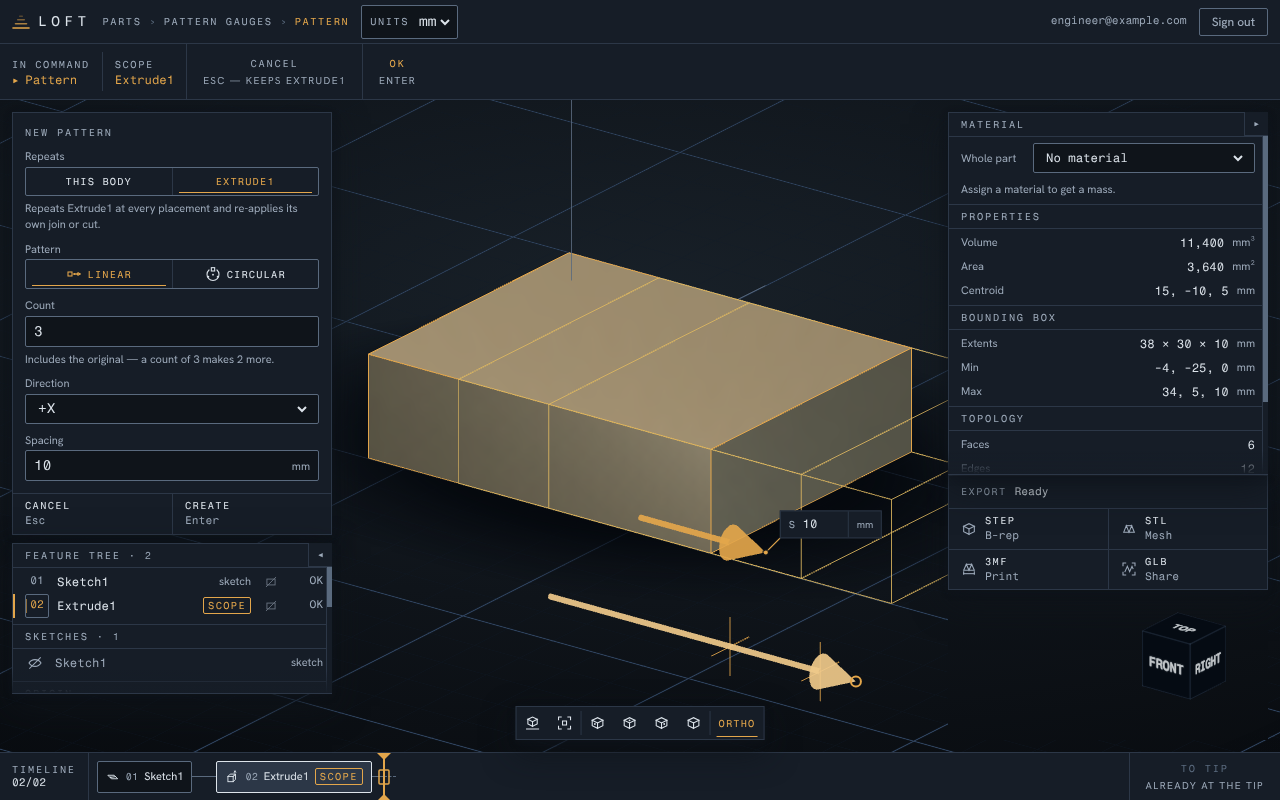
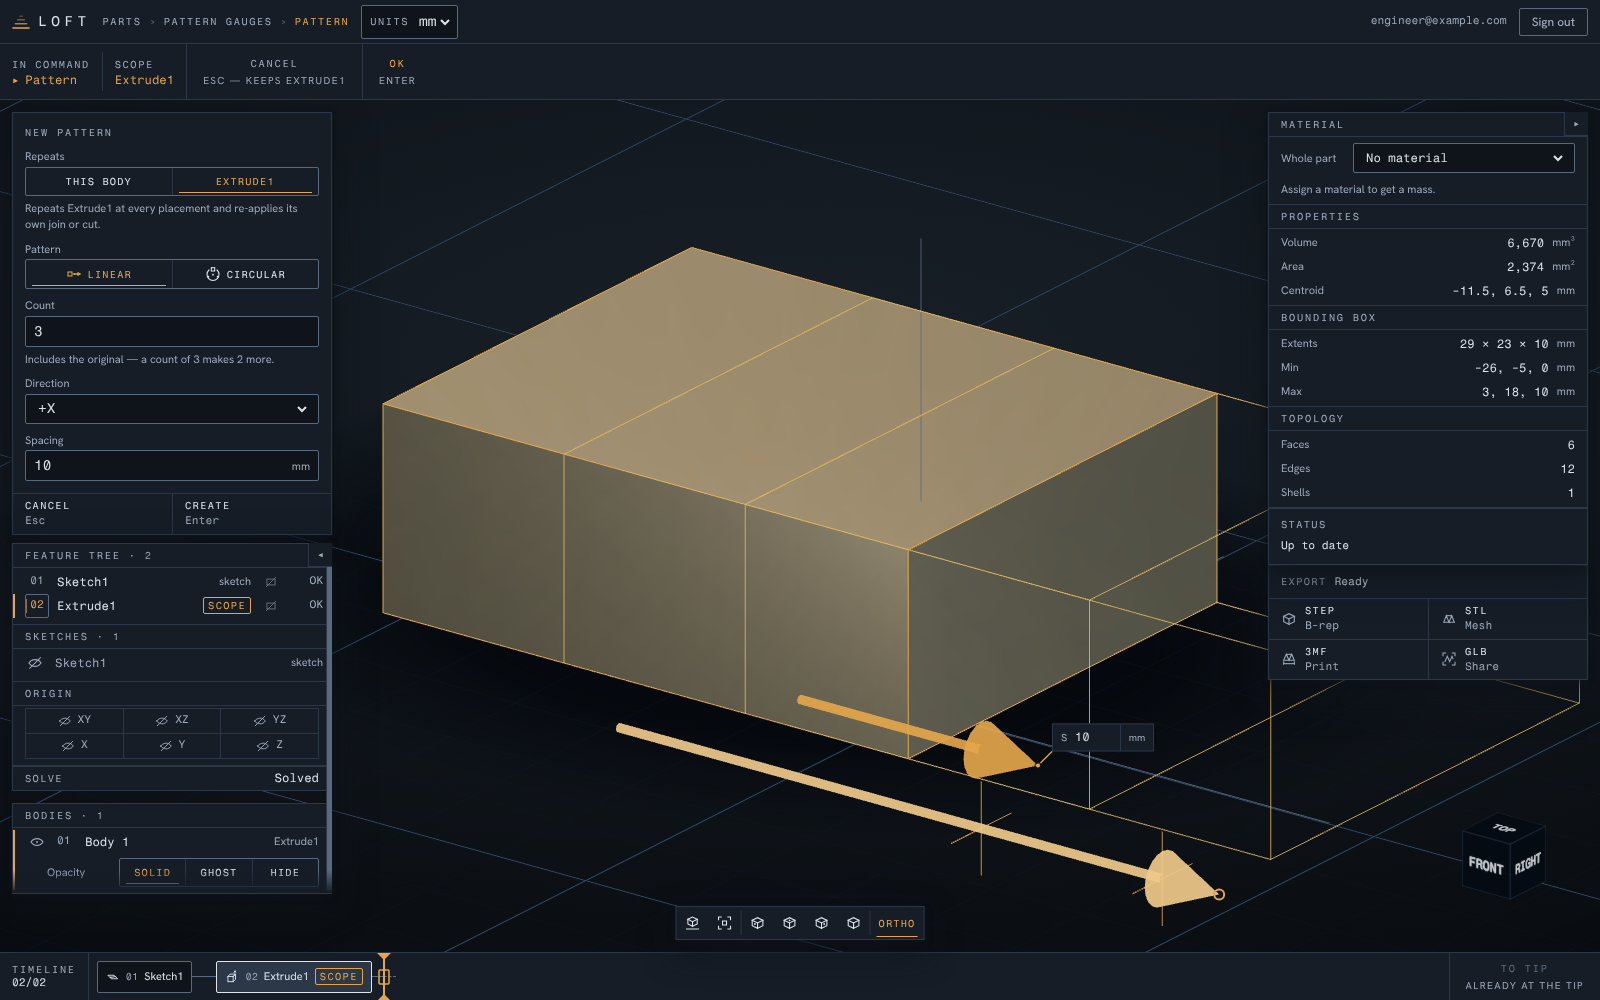
fix(web): the pattern count gauge's seat left the frame — the mm floors are why
`elementFromPoint` down the count gauge's own projected track resolved to the
instrument at 3 of 16 sample points, and SIX of the sixteen resolved to `null`
— off the frame entirely, which occlusion cannot produce. The rest landed on
`view-home` / `view-fit` / `timeline-way`: the track was laid across the nav
chrome and then off the bottom edge.

CRAFT-11 honestly measured 16/16 for the same gauge, and the state that differs
between the two readings is THE SIZE OF THE PART IN MILLIMETRES:

  | body (scene mm) | zoom | count reach | spacing reach |
  |---|---|---|---|
  | 102 x 10 x 73   |  6.9 | 16/16       | 16/16 |
  | 29 x 10 x 23    | 22.5 | 3/16        | 16/16 |
  | 11 x 10 x 11    | 40.1 | 0/16        | 2/16  |

The camera fits the BODY, so a world millimetre buys more pixels the smaller
the part is. The rails hung at `perpHalf + max(6, 0.35r) + max(10, 0.5r)`, and
BOTH `max`es select their constant whenever `radius < 17 mm` — most parts — so
the offset stopped shrinking with the part while the frame went on shrinking
with it. On the spec's part the far rail sat 438 px below the body centre on a
canvas whose centre-to-bottom is 449 px, 11 px above the edge before the arrow
had drawn anything.

The floors were SCREEN-SPACE REQUIREMENTS WRITTEN IN WORLD UNITS; their own
docstring said so ("10 mm projects to comfortably more than the 12 px sleeve
half-thickness"), and that is only true of parts big enough for the fraction to
[…]

diff --git a/apps/web/src/viewport/patternAnchor.ts b/apps/web/src/viewport/patternAnchor.ts
@@ -99,25 +99,26 @@ export const MAX_PATTERN_COUNT = 500;
  * the part READS, which is exactly what `radius` already means — it is the
  * number sizing the arrowhead and the rungs, so using it here makes one scale
  * where there were two.
+ *
+ * It had a `max(…, 6 mm)` floor under it until the seat was measured against
+ * the frame; {@link countRailOffset} carries that finding.
  */
-const RAIL_CLEARANCE_FRAC = 0.35;
-
-/** Clearance floor, mm, so a thin part still gets its dimension off the metal. */
-const RAIL_CLEARANCE_MIN_MM = 6;
-
-/** Rail separation, as a fraction of the instrument's own scale. */
-const RAIL_PITCH_FRAC = 0.5;
+export const RAIL_CLEARANCE_FRAC = 0.35;
 
 /**
- * Rail separation floor, mm.
+ * Rail separation, as a fraction of the instrument's own scale.
  *
- * This is the number that keeps the two hit sleeves apart, so it is a TARGET
- * SIZE question rather than a taste one: 10 mm projects to comfortably more
- * than the 12 px sleeve half-thickness at any camera that can frame a part
- * worth patterning, which is what makes "each sleeve resolves to itself" true
- * by construction rather than by luck.
+ * This is the number that keeps the two hit sleeves apart, and it used to be
+ * `max(0.5 · radius, 10 mm)`. **The floor was the defect** — see
+ * {@link countRailOffset} — and with it gone the fraction carries the whole
+ * guarantee, so it is now chosen against a projected pixel count rather than a
+ * world length: under the fit-to-body camera `0.3 · radius` measured **78, 83
+ * and 70 px** on parts of 29, 11 and 102 mm, against a 12 px sleeve
+ * half-thickness. The floor gave **208, 371 and 116 px** on the same three —
+ * the same requirement, met by 3x as much screen on the part that could least
+ * afford it. A fraction can be scale-invariant; a millimetre cannot.
  */
-const RAIL_PITCH_MIN_MM = 10;
+export const RAIL_PITCH_FRAC = 0.3;
 
 /** Seat scale floor, mm — a hairline part still gets a grabbable instrument. */
 const MIN_SEAT_RADIUS_MM = 2;
@@ -229,18 +230,62 @@ export function patternAnchor(bounds: SceneBounds, dir: Vec3): PatternAnchor {
 
 /** Distance from the body centre to the near (spacing) rail. */
 export function spacingRailOffset(anchor: PatternAnchor): number {
-  return (
-    anchor.perpHalf +
-    Math.max(RAIL_CLEARANCE_MIN_MM, RAIL_CLEARANCE_FRAC * anchor.radius)
-  );
+  return anchor.perpHalf + RAIL_CLEARANCE_FRAC * anchor.radius;
 }
 
-/** Distance from the body centre to the far (count) rail. */
+/**
+ * Distance from the body centre to the far (count) rail.
+ *
+ * ## THE SEAT USED TO LEAVE THE FRAME, AND THE FLOORS ARE WHY (P1, 2026-09-14)
+ *
+ * Measured on the flow `pattern-gauges.spec.ts` drives: `elementFromPoint` down
+ * the count gauge's own projected track resolved to the instrument at **3 of 16
+ * sample points**, and — the fact that names the cause — **six of the sixteen
+ * resolved to `null`**, off the frame entirely. Occlusion cannot produce a
+ * `null`. The rest landed on `view-home` / `view-fit` / `timeline-way`: the
+ * track was being laid across the nav chrome and then off the bottom edge.
+ *
+ * CRAFT-11 honestly measured 16/16 for the same gauge. Both readings are true,
+ * and the state that differs between them is **the size of the part in
+ * millimetres**:
+ *
+ * | body (scene mm) | camera zoom | count reach | spacing reach |
+ * |---|---|---|---|
+ * | 102 x 10 x 73 | 6.9 | 16/16 | 16/16 |
+ * | 29 x 10 x 23 (the spec's) | 22.5 | **3/16** | 16/16 |
+ * | 11 x 10 x 11 | 40.1 | **0/16** | **2/16** |
+ *
+ * The camera fits the BODY, so every world millimetre buys more pixels the
+ * smaller the part is. The rails were hung at `perpHalf + max(6, 0.35·r) +
+ * max(10, 0.5·r)`, and BOTH `max`es select their constant whenever
+ * `radius < 17 mm` — any part whose section across the row is under about
+ * 34 mm, which is most of them. So the offset stopped shrinking with the part
+ * while the frame went on shrinking with it.
+ *
+ * In pixels, on the spec's part: the far rail sat **438 px below the body's
+ * centre on a canvas whose centre-to-bottom is 449 px**, and the track then
+ * descends a further 166 px as it runs. The rail was 11 px above the bottom
+ * edge before the arrow had drawn anything.
+ *
+ * **The floors were screen-space requirements written in world units.** Their
+ * own docstrings said so — "10 mm projects to comfortably more than the 12 px
+ * sleeve half-thickness at any camera that can frame a part worth patterning" —
+ * and that sentence is only true of parts big enough to make the fraction win
+ * anyway. A fraction of `radius` IS the scale-invariant form of the same
+ * requirement, because the camera frames `radius`: measured across a 9x range
+ * of part size the rail separation now holds at **78 / 83 / 70 px**, where the
+ * floors produced **208 / 371 / 116**. So the floors are gone and the
+ * fractions, retuned, carry it.
+ *
+ * What this does NOT fix, said plainly: a part SMALLER than the row it
+ * generates. At 11 x 11 x 10 mm with a 10 mm pitch the ghost copies themselves
+ * run off the right edge — the whole preview is outside a frame fitted to one
+ * body, and the gauge merely inherits it. That is a camera question (nothing
+ * re-fits when a preview appears), not a seat question, and it is not fixable
+ * from this file.
+ */
 export function countRailOffset(anchor: PatternAnchor): number {
-  return (
-    spacingRailOffset(anchor) +
-    Math.max(RAIL_PITCH_MIN_MM, RAIL_PITCH_FRAC * anchor.radius)
-  );
+  return spacingRailOffset(anchor) + RAIL_PITCH_FRAC * anchor.radius;
 }
 
 /**

diff --git a/apps/web/src/viewport/patternAnchor.test.ts b/apps/web/src/viewport/patternAnchor.test.ts
@@ -26,6 +26,7 @@ import {
   MIN_PATTERN_COUNT,
   patternAnchor,
   patternPerp,
+  RAIL_PITCH_FRAC,
   sceneDirection,
   spacingRailOffset,
   spacingSeat,
@@ -122,22 +123,86 @@ describe("the two rails", () => {
     expect(spacingRailOffset(plate) - plate.perpHalf).toBeGreaterThan(
       2 * plate.perpHalf,
     );
-    expect(countRailOffset(plate)).toBeGreaterThan(30);
   });
 
-  it("separates the two sleeves by at least the rail-pitch floor", () => {
+  it("separates the two sleeves in PROPORTION to the instrument", () => {
     // THE HAZARD THIS ITEM OWNS. Seated on one line the two gauges would
     // overlap for the whole first gap and each sleeve could answer for its
-    // sibling. Checked on a hairline body too, where the fractional term
-    // vanishes and only the floor is holding them apart.
+    // sibling.
+    //
+    // This used to read `>= 10`, the millimetre floor, and that floor is what
+    // put the count gauge off the frame (see `countRailOffset`). The separation
+    // is a SCREEN requirement — the sleeve is 12 px half-thick — and the camera
+    // frames `radius`, so a fraction of `radius` is the form of it that holds at
+    // every part size: measured 78 / 83 / 70 px on parts of 29 / 11 / 102 mm,
+    // where the floor gave 208 / 371 / 116 for the same requirement.
+    //
+    // The hairline body is still here, and it is now held by MIN_SEAT_RADIUS_MM
+    // rather than by a rail-pitch floor — one scale floor instead of three.
     for (const bounds of [
       BLOCK,
       { min: [0, 0, 0], max: [40, 0, 0] } as SceneBounds,
     ]) {
       const anchor = patternAnchor(bounds, X);
-      expect(
-        countRailOffset(anchor) - spacingRailOffset(anchor),
-      ).toBeGreaterThanOrEqual(10);
+      expect(anchor.radius).toBeGreaterThanOrEqual(2);
+      expect(countRailOffset(anchor) - spacingRailOffset(anchor)).toBeCloseTo(
+        RAIL_PITCH_FRAC * anchor.radius,
+        9,
+      );
+    }
+  });
+
+  it("SCALES WITH THE PART — the property the floors broke", () => {
+    // The regression test for the P1, stated as the invariant rather than as a
+    // number: two geometrically SIMILAR bodies must get geometrically similar
+    // instruments, so every seat length scales by exactly the body's scale
+    // factor. A `max(…, <constant> mm)` cannot do that, which is precisely why
+    // the seat stopped shrinking with the part and walked off the frame — and
+    // it is why this assertion FAILS on the pre-fix arithmetic at k = 4: the
+    // floors select the constant for the small body and the fraction for the
+    // large one, so `spacingRailOffset` came out 12 mm and 34.1 mm (it reports
+    // "expected 34.095… to be close to 48") and `countRailOffset` 22 mm and
+    // 48.5 mm — ratios of 2.84 and 2.20 where the bodies differ by 4.
+    //
+    // It matters because the camera fits the BODY: an instrument similar to the
+    // part occupies a fixed share of the frame at every part size, which is the
+    // only version of "it is on screen" that is not a coincidence about one
+    // test fixture.
+    const k = 4;
+    const small = patternAnchor(BLOCK, X);
+    const large = patternAnchor(
+      {
+        min: [BLOCK.min[0] * k, BLOCK.min[1] * k, BLOCK.min[2] * k],
+        max: [BLOCK.max[0] * k, BLOCK.max[1] * k, BLOCK.max[2] * k],
+      },
+      X,
+    );
+    expect(large.radius).toBeCloseTo(k * small.radius, 9);
+    expect(spacingRailOffset(large)).toBeCloseTo(
+      k * spacingRailOffset(small),
+      9,
+    );
+    expect(countRailOffset(large)).toBeCloseTo(k * countRailOffset(small), 9);
+  });
+
+  it("spends at most 0.7 of the instrument's scale getting clear of the body", () => {
+    // A BUDGET, not a restatement of the arithmetic: the frame is fitted to the
+    // body, so the rails stay inside it only while the whole stack stays inside
+    // a small multiple of the part's own scale. Measured on the spec's
+    // 29 x 10 x 23 mm part, 0.65 puts the far rail 274 px below the body centre
+    // with 56 px of canvas still under the arrow's grip; the pre-fix seat put it
+    // 438 px down, past the bottom edge. Raising either fraction back toward
+    // what the floors used to deliver (16 mm of clearance+pitch on this BLOCK,
+    // i.e. 2.2 x radius) fails here first, cheaply, instead of in a browser.
+    for (const bounds of [
+      BLOCK,
+      { min: [-47.5, -5, -32.5], max: [47.5, 5, 32.5] } as SceneBounds,
+      { min: [-14.5, 0, -11.5], max: [14.5, 10, 11.5] } as SceneBounds,
+    ]) {
+      const anchor = patternAnchor(bounds, X);
+      expect(countRailOffset(anchor) - anchor.perpHalf).toBeLessThanOrEqual(
+        0.7 * anchor.radius,
+      );
     }
   });
 

diff --git a/apps/web/e2e/pattern-gauges.spec.ts b/apps/web/e2e/pattern-gauges.spec.ts
@@ -116,6 +116,35 @@ const ghostSegments = async (page: Page): Promise<number | null> =>
 const ghostSpanMm = async (page: Page): Promise<number | null> =>
   viewportStamp(page, "pattern-ghost-span-mm");
 
+/** Quiet window a reading must hold before it counts as settled, ms. */
+const QUIET_MS = 1_200;
+
+/**
+ * Read `probe` until it stops changing for {@link QUIET_MS}, and return it.
+ *
+ * The window is not a taste: the measured tail on the value chain behind these
+ * gauges is 0.4-0.8 s (see CONTRACT β below for the sampled timeline), so 1.2 s
+ * of stillness is the smallest window that is on the far side of it. State the
+ * margin rather than picking a round number, so that a future measurement can
+ * move it for a reason.
+ */
+async function quiesce(probe: () => Promise<number>): Promise<number> {
+  const deadline = Date.now() + 15_000;
+  let last = await probe();
+  let quietSince = Date.now();
+  while (Date.now() < deadline) {
+    await new Promise((resolve) => setTimeout(resolve, 150));
+    const now = await probe();
+    if (now !== last) {
+      last = now;
+      quietSince = Date.now();
+      continue;
+    }
+    if (Date.now() - quietSince >= QUIET_MS) return last;
+  }
+  throw new Error(`the reading never held still for ${QUIET_MS} ms`);
+}
+
 test.describe("the pattern gauges are two instruments, not one", () => {
   test("each sleeve resolves to ITSELF along its own drawn track", async ({
     page,
@@ -252,8 +281,38 @@ test.describe("the pattern gauges are two instruments, not one", () => {
     // to `before`, so the property to assert is "it settled somewhere that is
     // not where it started, and it stays there". Verified by deleting the echo
     // prop: the gauge then springs back to 10, its starting value.
-    await page.waitForTimeout(600);
-    const settled = await shown();
+    //
+    // SETTLING IS A CONDITION, NOT A DURATION. It was a fixed 600 ms wait, i.e.
+    // a bet that the echo chain is quicker than a number somebody guessed, and
+    // the bet is close enough to lose: the case failed inside a full-file run
+    // reporting 13 then 13.5 — one snap increment arriving during the second
+    // wait, which the case then read as the instrument refusing to hold still.
+    //
+    // MEASURED 2026-09-14, sampling both readouts every 100 ms after release,
+    // and measured on the COMMITTED tree too, because the seat change in this
+    // commit was the first suspect and it is innocent — the same shape appears
+    // without it:
+    //
+    //   T[2051] gauge=13   field=13.5   <- the rail is already right
+    //   T[2410] gauge=13.5 field=13.5   <- the instrument catches up
+    //
+    // So the tail is the PRODUCT's, not the test's: for 0.4-0.8 s after you let
+    // go (it varies run to run) the instrument and the panel beside it show
+    // different numbers. It belongs to the ask-queue -> preview -> prop round
+    // trip in `PartPage`, which is not this file's to change; it is written
+    // down here rather than absorbed silently, because a wait tuned around a
+    // defect is how the defect stops being visible.
+    //
+    // Nor is "wait until the two readouts AGREE" the condition — measured, they
+    // pass through the intermediate value TOGETHER, so that poll returns true at
+    // 13 and the case fails exactly as before. The honest condition is
+    // QUIESCENCE over a window longer than the measured tail.
+    //
+    // It costs the spring-back check nothing, which is worth stating because
+    // relaxing a wait usually does: a missing echo clears `live` and reverts to
+    // `value` ON pointerup, permanently, so a sprung-back gauge is quiescent AT
+    // `before` and the assertion below still fires on it.
+    const settled = await quiesce(shown);
     expect(
       settled,
       "a released drag must not spring back to its starting value — that is " +
